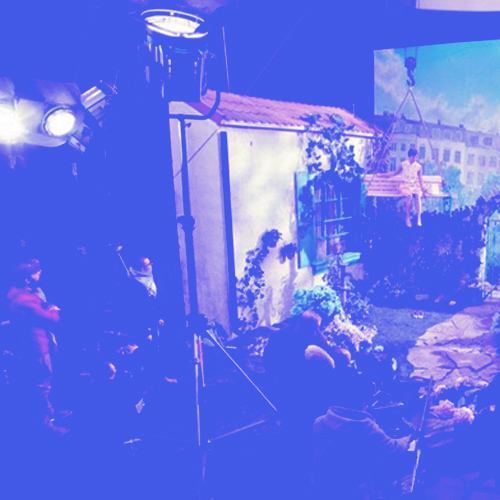
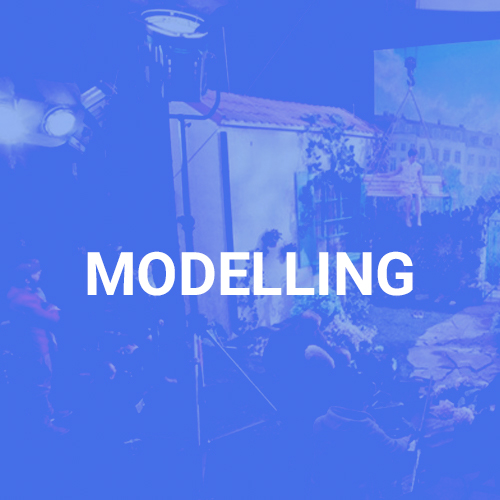
Modelling

diff --git a/portal2.html b/portal2.html
@@ -255,6 +255,17 @@
 											<a href="lectures/CS4093/notes/N04.pdf" class="image fit"><img src="lectures/CS4093/images/N04.jpg" alt=""></a>
 											<figcaption class="caption">4: Notes</figcaption>
 										</div>
+
+										<div class="12u$ 12u$(mobile)"><hr></div>
+
+										<div class="3u 12u$(mobile)">
+											<a href="lectures/CS4093/L05.pdf" class="image fit"><img src="lectures/CS4093/images/L05.jpg" alt=""></a>
+											<figcaption class="caption">5: Modelling III <a href="lectures/CS4093/code/L03/code03.gz">Code</a></figcaption>
+										</div>
+										<div class="3u 12u$(mobile)">
+											<a href="lectures/CS4093/notes/N05.pdf" class="image fit"><img src="lectures/CS4093/images/N05.jpg" alt=""></a>
+											<figcaption class="caption">5: Notes</figcaption>
+										</div>
 										<!--
 										-->
 										<div class="12u$ 12u$(mobile)">
